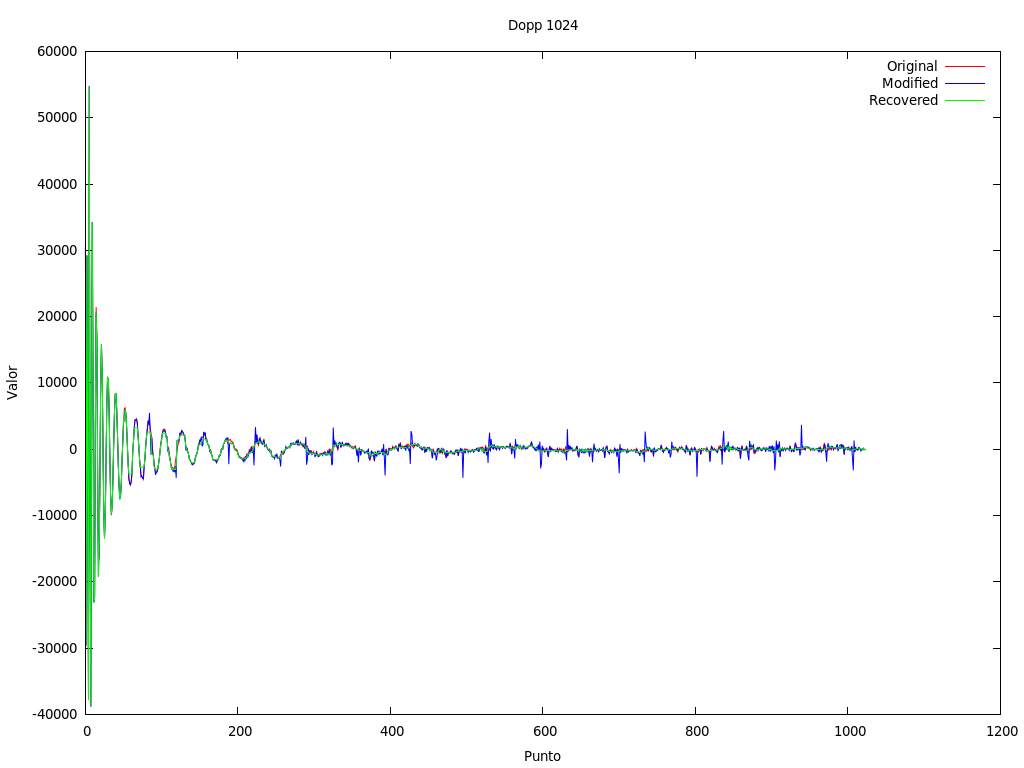
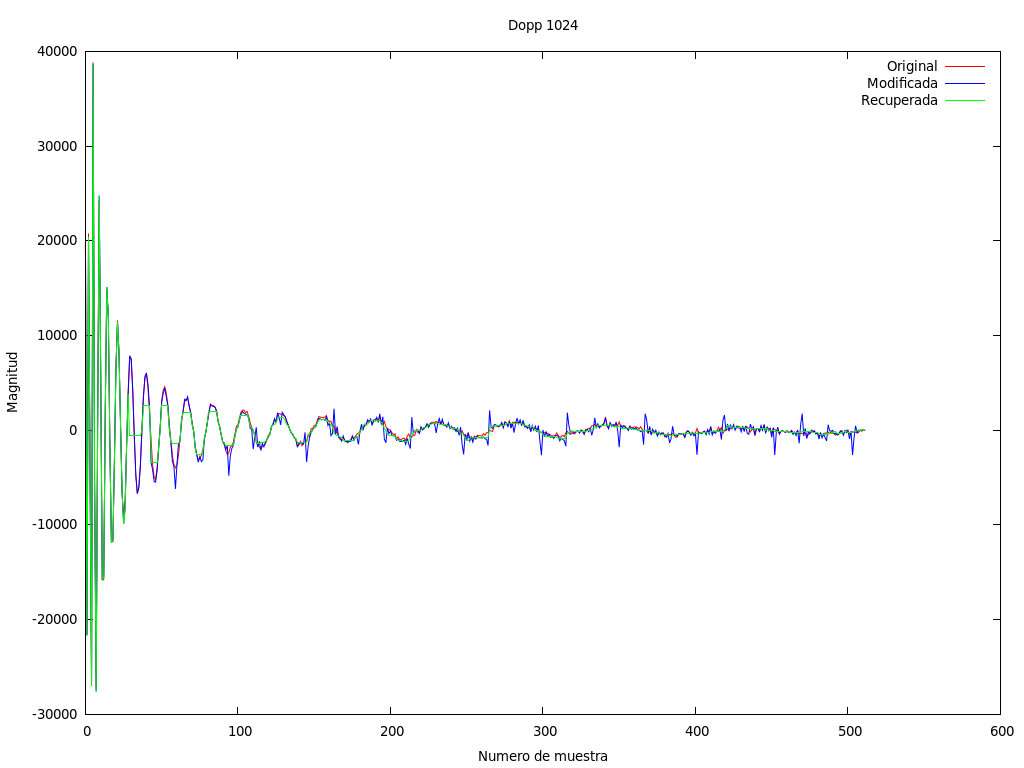
agregadas imagenes

diff --git a/tp2/informe/resultados.tex b/tp2/informe/resultados.tex
@@ -19,12 +19,12 @@ que casos es mejor aplicar cada uno.
 
 Experimentalmente pudimos observar que el filtro cero es bueno (recupera las
 se\~nales en un grado aceptable), pero el filtro 
-exponencial y el promediador son bastante mejores en todos los casos. En el caso
-de ruido Impulsivo, el filtro de la mediana tambi\'en logra resultados interesantes.
+exponencial y el de la mediana son bastante mejores en general. En el caso
+de ruido Impulsivo, el filtro de la mediana logra resultados interesantes.
 
 Para poder obtener un mejor filtrado del ruido, decidimos aplicar primero el 
-filtro exponencial y luego el promediador, lo que result\'o en un filtrado muy 
-bueno dando resultados muy parecidos a la se\~nal original. 
+filtro exponencial y luego el de la mediana, lo que result\'o en un filtrado muy 
+interesante, dando buenos resultados en ciertos casos. 
 
 Los adjetivos utilizados se apoyan tanto en la interpretaci\'on de los gr\'aficos,
 la apreciaci\'on del resultado en las im\'agenes y la medida del PSNR tanto en 1 como en 2
@@ -40,10 +40,10 @@ puntos que lo sobrepasan (tanto por arriba como por debajo) a cero.
 
 \begin{figure}[H]
 \begin {center}
-\includegraphics[width=500pt]{imagenes/dopp1024-sin100-zero-spec.png}
+\includegraphics[width=500pt]{imagenes/dopp1024-gauss-10-zero.png}
 \end {center}
 \caption{Se\~nal doppler provista por la c\'atedra, transformada, gr\'aficada
-luego de aplicar ruido senoidal utilizando el multiplicador 1000 (rojo) y 
+luego de aplicar ruido gaussiano utilizando con varianza 10 (rojo) y 
 habiendo aplicado el filtro cero (azul)}
 \label{fig:Dopp1024zero}
 \end{figure}
@@ -55,36 +55,22 @@ habiendo aplicado el filtro cero (azul)}
 
 \begin{figure}[H]
 \begin {center}
-\includegraphics[width=500pt]{imagenes/g450-sin100-exp-spec.png}
+\includegraphics[width=500pt]{imagenes/dopp1024-gauss-10-exp.png}
 \end {center}
 \caption{Se\~nal \texttt{g450} provista por la c\'atedra, transformada, gr\'aficada
-luego de aplicar ruido senoidal utilizando el multiplicador 1000 (rojo) y 
+luego de aplicar ruido gaussiano con varianza 10 (rojo) y 
 habiendo aplicado el filtro exponencial (azul)}
 \label{fig:GexpSpec}
 \end{figure}
 
 \begin{figure}[H]
 \begin {center}
-\includegraphics[width=500pt]{imagenes/s64-sin100-exp.png}
+\includegraphics[width=500pt]{imagenes/s64-gauss-10-exp.png}
 \end {center}
 \caption{Se\~nal \texttt{s64} provista por la c\'atedra, no transformada, gr\'aficada
-luego de aplicar ruido senoidal utilizando el multiplicador 1000 (rojo) y 
-habiendo aplicado el filtro promedio (azul)}
+luego de aplicar ruido gaussiano con varianza 10 (rojo) y 
+habiendo aplicado el filtro exponencial (azul)}
 \label{fig:SexpSig}
-\end{figure}
-
-
-\subsubsection{Filtro Promedio}
-
-
-\begin{figure}[H]
-\begin {center}
-\includegraphics[width=500pt]{imagenes/dopp512-sin100-avg-spec.png}
-\end {center}
-\caption{Se\~nal \texttt{doppler512} provista por la c\'atedra, transformada, gr\'aficada
-luego de aplicar ruido senoidal utilizando el multiplicador 1000 (rojo) y 
-habiendo aplicado el filtro promedio (azul)}
-\label{fig:SinProm}
 \end{figure}
 
 \subsubsection{Filtro de la Mediana}
@@ -95,7 +81,7 @@ habiendo aplicado el filtro promedio (azul)}
 \end {center}
 \caption{Se\~nal \texttt{doppler1024} provista por la c\'atedra, transformada, gr\'aficada
 luego de aplicar ruido impulsivo (azul) y 
-habiendo aplicado el filtro promedio (verde)}
+habiendo aplicado el filtro de la mediana (verde)}
 \label{fig:SinProm}
 \end{figure}
 
@@ -104,31 +90,31 @@ habiendo aplicado el filtro promedio (verde)}
 
 \begin{figure}[H]
 \begin {center}
-\includegraphics[width=500pt]{imagenes/dopp1024-gauss100-both.png}
+\includegraphics[width=500pt]{imagenes/dopp1024-gauss-100-both.png}
 \end {center}
 \caption{Se\~nal \texttt{doppler1024} provista por la c\'atedra, no transformada, gr\'aficada
-luego de aplicar ruido gaussiano utilizando una amplitud de 100 (rojo) y 
-habiendo aplicado los filtros promedio y exponencial (verde)}
+luego de aplicar ruido gaussiano utilizando una varianza de 100 (rojo) y 
+habiendo aplicado los filtros de la mediana y exponencial (verde)}
 \label{fig:dopcomb}
 \end{figure}
 
 \begin{figure}[H]
 \begin {center}
-\includegraphics[width=500pt]{imagenes/g450-sin100-both.png}
+\includegraphics[width=500pt]{imagenes/dopp1024-gauss-10-both.png}
 \end {center}
-\caption{Se\~nal \texttt{g450} provista por la c\'atedra, no transformada, gr\'aficada
-luego de aplicar ruido senoidal utilizando el multiplicador 1000 (rojo) y 
-habiendo aplicado los filtros promedio y exponencial (verde)}
+\caption{Se\~nal \texttt{doppler1024} provista por la c\'atedra, no transformada, gr\'aficada
+luego de aplicar ruido gaussiano de varianza 10 (rojo) y 
+habiendo aplicado los filtros de la mediana y exponencial (verde)}
 \label{fig:gcomb}
 \end{figure}
 
 \begin{figure}[H]
 \begin {center}
-\includegraphics[width=500pt]{imagenes/s64-gauss100-both-spec.png}
+\includegraphics[width=500pt]{imagenes/dopp1024-imp-both.png}
 \end {center}
-\caption{Se\~nal \texttt{s64} provista por la c\'atedra, transformada, gr\'aficada
-luego de aplicar ruido gaussiano utilizando una amplitud de 100 (rojo) y 
-habiendo aplicado los filtros promedio y exponencial (verde)}
+\caption{Se\~nal \texttt{doppler1024} provista por la c\'atedra, transformada, gr\'aficada
+luego de aplicar ruido impulsivo  (rojo) y 
+habiendo aplicado los filtros de la mediana y exponencial (verde)}
 \label{fig:scomb}
 \end{figure}
 
